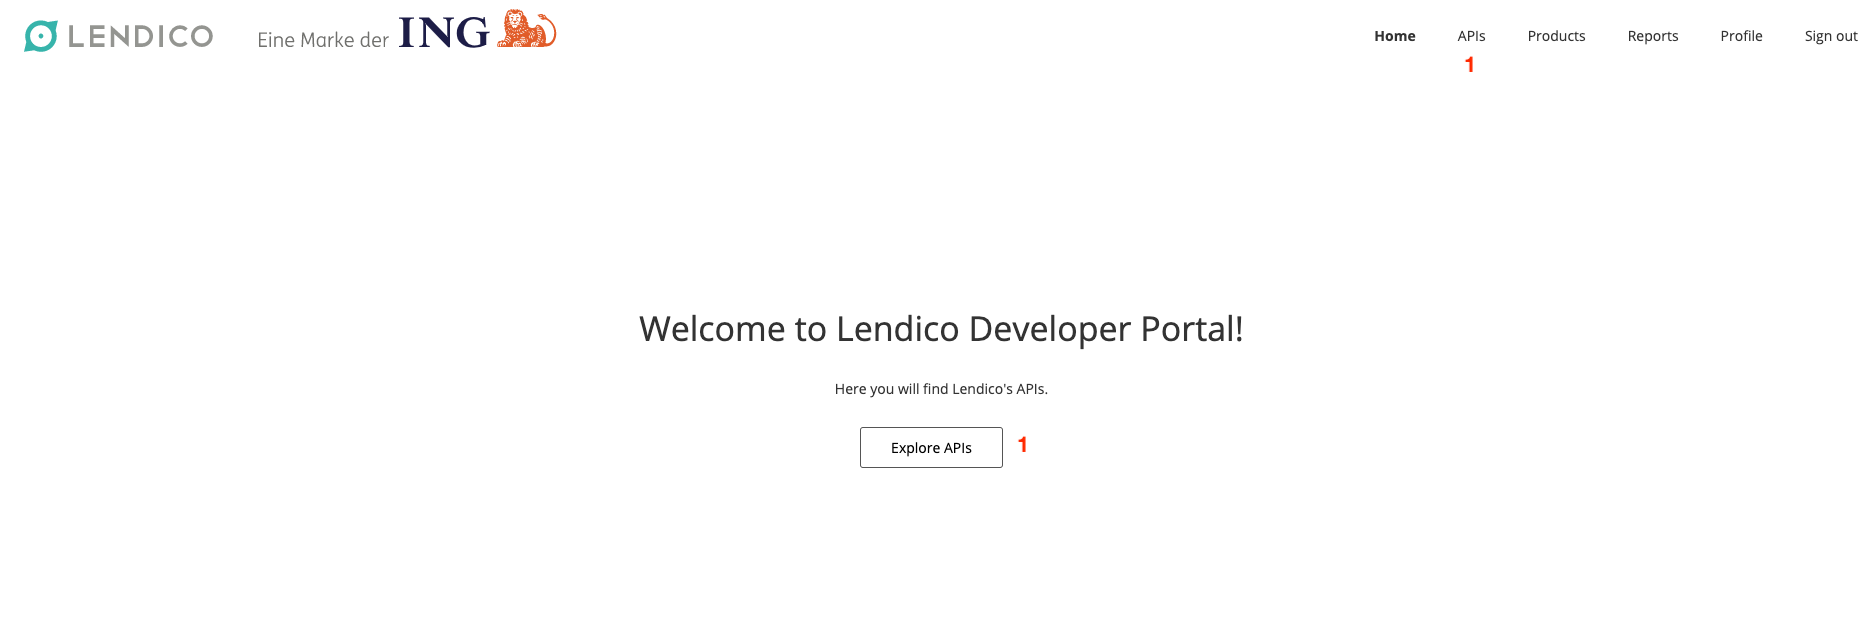
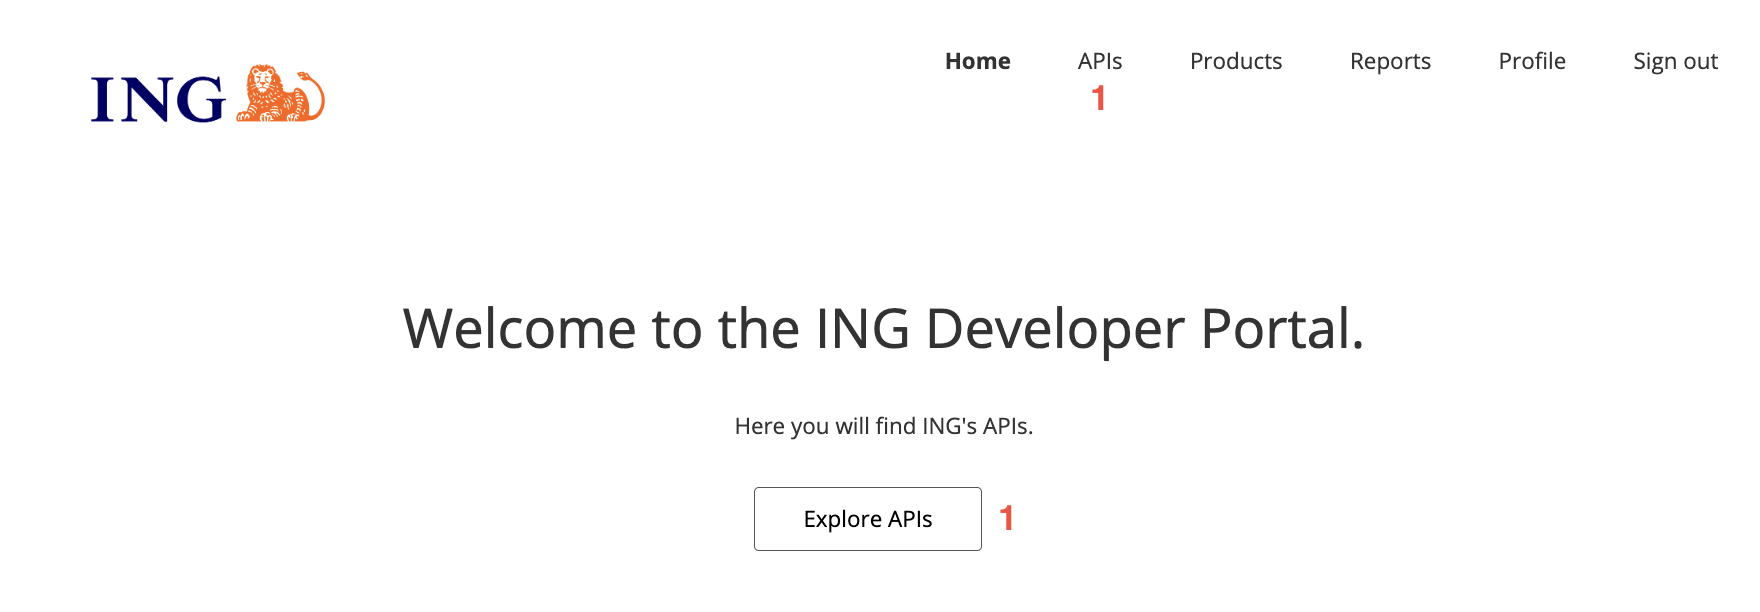
change API Portal onboarding journey to ING.

diff --git a/CommonErrors.md b/CommonErrors.md
@@ -26,22 +26,22 @@ or
 }
 ```
 
-| Error Type                                         | HTTP Status Code | Title                                        | Detail                                                                                                                                                                                          | Description  |
-|----------------------------------------------------|------------------|----------------------------------------------|-------------------------------------------------------------------------------------------------------------------------------------------------------------------------------------------------|--------------|
-| [https://www.lendico.de/](https://www.lendico.de/) | 400              | Constraint Violation                         | violations:\["", ""\]                                                                                                                                                                           | Client error |
-| [https://www.lendico.de/](https://www.lendico.de/) | 401              | Missing subscription key                     | see [Security Page](Security.md#subscription-key)                                                                                                                                             | Client error |
-| [https://www.lendico.de/](https://www.lendico.de/) | 401              | Invalid subscription key                     | see [Security Page](Security.md#subscription-key)                                                                                                                                             | Client error |
-| [https://www.lendico.de/](https://www.lendico.de/) | 401              | Partner not matched                          | Unable to find a partner with the provided key/id, please contact the system admin                                                                                                              | Client error |
-| [https://www.lendico.de/](https://www.lendico.de/) | 401              | Invalid client certificate                   | Invalid certificate provided, please try again with a valid certificate                                                                                                                         | Client error |
-| [https://www.lendico.de/](https://www.lendico.de/) | 401              | Unauthorized                                 | In case invalid or missing authorization header. See [Security Page](Security.md#oauth2)                                                                                                      | Client error |
-| [https://www.lendico.de/](https://www.lendico.de/) | 401              | Unauthorized                                 | Unauthorized access to the resource, please contact the system admin.                                                                                                                           | Client error |
-| [https://www.lendico.de/](https://www.lendico.de/) | 401              | Signature could not be successfully verified | In case signature is invalid, e.g message signed with different no or different certificate from the one provided, or message build using different structure. See [Security Page](Security.md) | Client error |
-| [https://www.lendico.de/](https://www.lendico.de/) | 403              | Forbidden                                    | see [Security Page](Security.md)                                                                                                                                                                | Client error |
-| [https://www.lendico.de/](https://www.lendico.de/) | 404              | Not Found                                    |                                                                                                                                                                                                 | Client error |
-| [https://www.lendico.de/](https://www.lendico.de/) | 429              | Limit of request by crefo Id exceeded.       | Limit of request, in a given amount of time, by crefo Id exceeded, try again later.                                                                                                             | Client error |
-| [https://www.lendico.de/](https://www.lendico.de/) | 429              | Rate limit is exceeded.                      | see [Security Page](Security.md#throttling)                                                                                                                                                   | Client error |
-| [https://www.lendico.de/](https://www.lendico.de/) | 500              | Internal Server Error                        | The internal exception                                                                                                                                                                          | Server error |
-| [https://www.lendico.de/](https://www.lendico.de/) | 503              | Service Unavailable                          |                                                                                                                                                                                                 | Server error |
+| HTTP Status Code | Title                                        | Detail                                                                                                                                                                                          | Description  |
+|------------------|----------------------------------------------|-------------------------------------------------------------------------------------------------------------------------------------------------------------------------------------------------|--------------|
+| 400              | Constraint Violation                         | violations:\["", ""\]                                                                                                                                                                           | Client error |
+| 401              | Missing subscription key                     | see [Security Page](Security.md#subscription-key)                                                                                                                                             | Client error |
+| 401              | Invalid subscription key                     | see [Security Page](Security.md#subscription-key)                                                                                                                                             | Client error |
+| 401              | Partner not matched                          | Unable to find a partner with the provided key/id, please contact the system admin                                                                                                              | Client error |
+| 401              | Invalid client certificate                   | Invalid certificate provided, please try again with a valid certificate                                                                                                                         | Client error |
+| 401              | Unauthorized                                 | In case invalid or missing authorization header. See [Security Page](Security.md#oauth2)                                                                                                      | Client error |
+| 401              | Unauthorized                                 | Unauthorized access to the resource, please contact the system admin.                                                                                                                           | Client error |
+| 401              | Signature could not be successfully verified | In case signature is invalid, e.g message signed with different no or different certificate from the one provided, or message build using different structure. See [Security Page](Security.md) | Client error |
+| 403              | Forbidden                                    | see [Security Page](Security.md)                                                                                                                                                                | Client error |
+| 404              | Not Found                                    |                                                                                                                                                                                                 | Client error |
+| 429              | Limit of request by crefo Id exceeded.       | Limit of request, in a given amount of time, by crefo Id exceeded, try again later.                                                                                                             | Client error |
+| 429              | Rate limit is exceeded.                      | see [Security Page](Security.md#throttling)                                                                                                                                                   | Client error |
+| 500              | Internal Server Error                        | The internal exception                                                                                                                                                                          | Server error |
+| 503              | Service Unavailable                          |                                                                                                                                                                                                 | Server error |
 
 ## Rejection Reasons
 

diff --git a/ApiPortal.md b/ApiPortal.md
@@ -27,21 +27,19 @@ For signing up use an account that will be related to the system you want to int
 
 ![Portal Sign In](resource/portal-signin.png "Portal Sign In")
 
-3. Click on `Sign up now` as shown in the bottom of the image.
+3. In the pop-up window (make sure your browser allows pop-ups), sign-in with your Microsoft account. The creation of a Microsoft account is outside the scope if this guide. 
 
-![Portal B2C Sign In](resource/portal-b2c-signin.png "Portal B2C Sign In")
+![Portal Microsoft Sign In](resource/portal-ms-signin.png "Portal Microsoft Sign In")
 
-4. Fill out the email.
-5. Click on `Send verification code` and a text box will open, text there the confirmation code you got in your email.
-6. Fill out the password.
-7. Fill out the password confirmation.
-8. Fill out the given name, for making it easier for identify the company, please add here the name of the company.
-9. Fill out the person or team responsible for the onboarding(Not mandatory).
-10. Click on create and the account will be created
+4. After signing-in with your Microsoft account, authorise Azure AD B2C App by clicking on `Accept`
+
+![Authorise Azure AD B2C App](resource/portal-b2s-authorise.png "Authorise Azure AD B2C App")
+
+5. Fill in `Display Name` you company name.
 
 ![Portal B2C Sign UP](resource/portal-signup.png "Portal B2C Sign UP")
 
-That is the first step of the onboarding process, after that the Partner API Tech Team will handle the subscription and the credentials and send it to you.
+That is the first step of the onboarding process, after that the Partner API Tech Team will associate the Partner API to your newly created account in API Portal.
 
 
 ## Exploring APIs and Profile
@@ -68,62 +66,5 @@ As mentioned before you also can see the subscription key associated to your acc
 2 And you can display or regenerate your Subscription Key.
 
 ![Portal Profile](resource/portal-profile.png "Portal Profile")
-
-## Testing the APIs
-
-Azure portal allows you also to try out the operations directly from the portal,
-
-For trying out API call you can go to the APIs page(as already depicted in the previous section).
-
-For calling all the endpoints in Partner API we need first get the OAuth2 token, for sending in the `Authorization` header.
-The process for getting the token is depicted below:
-
-1 Inside partner APi select on the left side, `token` operation.
-2 Click on`Try it` on the right side of the screen.
-
-![Try out](resource/portal-try.png "Try out")
-
-3 A panel on the right side will open up.
-4 Considering that you have already been onboarded on the API, your subscription will automatically appear on the
-dropbox.
-5 Make sure you have the same headers as displayed on the picture `Content-Type` and`Subscription-key`.
-6 Add in the `Raw` body input box the `client_id` and `client_secret` in the following format:
-   `client_id={client_id}&client_secret={client_secret}`
-
-![Token Request](resource/portal-token-request.png "Token Request")
-
-7 Scrolling down in the panel you will see a dropbox where you can select a client request, you will be able to see the request in the selected client.
-Curl, or Java, Python, etc.
-8 Click on the button `send` and it will send the request.
-
-![Token Request](resource/portal-token-request2.png "Token Request")
-
-8.1 All the operations in Partner API requires mTLS, meaning that you need to provide the certificate for calling any operation.
-This is the same certificate that you would have uploaded for your APIM service and added to the trusted list in the certificate store of your workstation.
-You can see for instance how to add it on Google Chrome [here](https://support.google.com/chrome/a/answer/6342302?hl=en).
-It varies from OS to OS, e.g for Macbook you can find how to add it [here](https://support.apple.com/en-gb/guide/keychain-access/kyca2431/mac).
-
-Once you have added it to the certificate store of your workstation, you can add it to the request in the portal.
-When you click on `send` the portal will display a popup requesting you to select a certificate for sending using it in the endpoint call, if you do not select it or select a wrong one, the request will fail due missing certificate,
-see more in mTLS [here](Security.md#authentication).
-
-Tip: In case you missed the popup for selecting the certificate, or select the wrong certificate, you can always open the portal again in incognito tab and the \
-popup will appear again.
-
-8.2 click `Ok` button after selecting your certificate.
-
-![Token Popup](resource/portal-cert-popup.png "Token Popup")
-
-
-9 Now you can copy the `token` obtained here and use it request.
-
-![Token Response](resource/portal-token-response.png "Token Response")
-
-10 Now you can call the API endpoints with the `Authorization` header.
-For example the `ping` endpoint.
-11 Do not forget to add the header on the panel on the left side as shown in the below picture.
-
-![Token Request](resource/portal-ping-request.png "Token Request")
-
 
 

diff --git a/Onboarding.md b/Onboarding.md
@@ -4,7 +4,7 @@
 ## 1 Onboarding
 ### 1.1 Business Onboarding
 If you are here most likely you have already been through the business onboarding process.
-But in case you have not, you need to request onboarding as a Lendico partner through [Partner Werden Page](https://www.lendico.de/partner-werden).
+But in case you have not, you need to request onboarding as a Lendico partner through [Partner Werden Page](https://openbusiness.ing.de/ing-partner-werden).
 The Partner Management Team will be in touch for signing contracts, terms and conditions, privacy agreements etc.
 In case you are eligible for using the API, we will start the API Onboarding.
 
@@ -15,11 +15,12 @@ Partner API authenticates clients with the use of public key cryptography and us
 
 So some tasks need to be done before we can go ahead and try out any requests to the Partner API.
 You need the following steps:
-* First, you should already have a microsoft AD tenent.
+* First, you should already have a Microsoft AD tenant.
 * Then we will request: 
-  * List IPs address from where the Partner API will get the calls, for whitelisting them on our API.
+  * List of IP addresses from where the Partner API will get the calls, for whitelisting them on our API.
+  * List of IP addresses from where you will access the API Portal.
   * We need two different PKI key pairs. You can use official CA signed certificates, or use so called 'Self signed' certificates. See also the certificate specification in [the Authentication section of the security page](Security.md).
-* Next, we will infrom you to create an account in the [API Portal](https://api-portal.openbusiness.ing.de/), see how to sign up [here](ApiPortal.md#sign-up).
+* Next, we will inform you to create an account in the [API Portal](https://api-portal.openbusiness.ing.de/), see how to sign up [here](ApiPortal.md#sign-up).
 * After that we will send to the email account created in the first step, the credentials to access the API, the subscription key will be visible in the portal, [see API Portal Page](ApiPortal.md#exploring-apis-and-profile). 
 
 ## 2 Study this Guide

diff --git a/History.md b/History.md
@@ -2,9 +2,10 @@
 
 ## Document History
 
-| Major Version | Minor Version | Date        | Description                          |
-|---------------|---------------|-------------|--------------------------------------|
-| v1            | 3             | 17 Feb 2023 | Expand application statuses coverage |
-| v1            | 2             | 7 Oct 2022  | Fix broken links                     |
-| v1            | 1             | 1 July 2022 | Adding HTTP Signature                |
-| v1            | 0             | 3 Feb 2022  | Initial documentation                |  
+| Major Version | Minor Version | Date        | Description                              |
+|---------------|---------------|-------------|------------------------------------------|
+| v1            | 4             | 20 Nov 2024 | Add new endpoints and onboarding process |
+| v1            | 3             | 17 Feb 2023 | Expand application statuses coverage     |
+| v1            | 2             | 7 Oct 2022  | Fix broken links                         |
+| v1            | 1             | 1 July 2022 | Adding HTTP Signature                    |
+| v1            | 0             | 3 Feb 2022  | Initial documentation                    |  

diff --git a/Security.md b/Security.md
@@ -29,7 +29,7 @@ The Partner API provides some headers to help to deal with the rate limit.
  * RateLimit-Limit: containing the amount of requests allowed in a time window of 60 seconds;
  * RateLimit-Remaining: containing the remaining requests amount in the current window;
  * RateLimit-Reset: containing the time remaining in the current window for refreshing the rate limit, specified in seconds, you should try again only after those seconds.
-See more in this [draft]( https://tools.ietf.org/id/draft-polli-ratelimit-headers-00.html).
+See more in this [draft]( https://datatracker.ietf.org/doc/draft-ietf-httpapi-ratelimit-headers/00/).
 
 Another Throttling mechanism we use is by crefo id within a time window.
 You cannot apply using the same crefo id within the first 5 minutes from the first try, it will lead to HTTP status code `429` and the following error message:

diff --git a/Tutorials.md b/Tutorials.md
@@ -305,7 +305,7 @@ signature=`printf %s "$signingString" | openssl dgst -sha256 -sign "${certPath}m
 keyId="2e91ff74-65c9-4590-a355-399998878d4f" # keyId is the Client ID we sent to you
 subscriptionKey="171bda0be8914b5fb99ad7faa14a860d" # Subscrption key
 
[1 lines of base64/hex data omitted]
+certPath="/Users/username/Documents/ing/dev/certs/script/apim/" # path of the two pair of self-signed X.509 certificates and keys that you generated  and sent to us the pfx file
 
 httpHost="https://api.sandbox.lendico.de/partner-api"
 

diff --git a/Apis.md b/Apis.md
@@ -3,17 +3,18 @@
 ## API Portal
 ### Development
 
-```https://api-portal.sandbox.lendico.de```
+```https://api-portal.accp.openbusiness.ing.de/```
 
 ### Production
-upon request
+```https://api-portal.openbusiness.ing.de/```
+access available only upon request
 
 ## Endpoints
 ### Development
-```https://api.sandbox.lendico.de/partner-api/{resource}```
+```https://api.accp.openbusiness.ing.de/partner-api/{resource}```
 
 ### Production
-```https://api.lendico.de/partner-api/{resource}```
+```https://api.openbusiness.ing.de/partner-api/{resource}```
 
 ### Headers
 For all the APIs operations you must provide the headers:

diff --git a/ReadMe.md b/ReadMe.md
@@ -4,7 +4,7 @@
 
 * [What is Partner API](Introduction.md)
     * [Concepts](Concepts.md)
-    * [Statuses](Statuses.md)
+    * [Application Statuses](Statuses.md)
 * [Getting started](Onboarding.md)
   * [Partner Onboarding](Onboarding.md)
   * [APIs Overview](Apis.md)
@@ -26,5 +26,4 @@
 * [Versioning](Versioning.md) 
 * [Contact](Contacts.md)
 * [Incidents and Requests](Incidents.md)
-* [Troubleshooting and Known Issues](Troubleshoot.md)
 * [Documentation History](History.md) 

diff --git a/Statuses.md b/Statuses.md
@@ -2,9 +2,9 @@
 
 # Statuses
 
-## Application Statuses
+## Loan Application Statuses
 
-### Application Status Transition Diagram
+### Loan Application Status Transition Diagram
 
 The below diagram represents the possible status for the application life cycle. You can see the description for each
 status

diff --git a/Enums.md b/Enums.md
@@ -2,7 +2,7 @@
 
 ## <a name="tb-term-units"></a>  Term units
 
-The type of address that is being provide
+The type of address that is being provided
 
 | Value | Description                   |
 |-------|-------------------------------|
